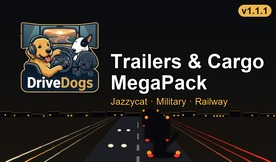
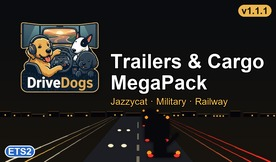
add the game badge bottom-left with a white rim over the light trails, so the ets2 and ats covers differ at thumbnail size

Changed region(s): [[0.0, 0.8951, 0.1449, 0.9877]]

diff --git a/tools/generate_cover.py b/tools/generate_cover.py
@@ -13,6 +13,10 @@ left lane.
 Composited at 4x (1104x648) then downscaled for anti-aliasing. The version
 badge is read from megapack.yaml's package.version, so rerun this before every
 build that bumps the version.
+
+The game badge (bottom-left, one colour per game so the ETS2 and ATS covers
+differ at thumbnail size) comes from megapack.yaml's package.game, never a
+constant here. A white rim keeps it distinct over the light trails behind it.
 """
 import random
 from pathlib import Path
@@ -44,18 +48,24 @@ TAILLIGHT_COLOR = (255, 48, 36)
 MARKER_COLOR = (255, 150, 40)
 BADGE_COLOR = (255, 196, 84)
 BADGE_TEXT_COLOR = (20, 16, 10)
+# Same values as the DriveDogs family reference (DriveDogs Pets): ETS2 blue, ATS red.
+GAME_BADGES = {"ets2": ("ETS2", (40, 110, 210)), "ats": ("ATS", (200, 45, 45))}
+GAME_TEXT_COLOR = (255, 255, 255)
 
 ROAD_TOP = 0.72  # fraction of height where the road meets the skyline
 ROAD_BOTTOM_X = (0.30, 0.70)
 ROAD_TOP_X = (0.44, 0.56)
 
 
-def read_version():
-    cfg = yaml.safe_load(CONFIG_PATH.read_text(encoding="utf-8"))
-    version = (cfg.get("package") or {}).get("version")
+def read_package():
+    """(version, game) from megapack.yaml's package block."""
+    package = yaml.safe_load(CONFIG_PATH.read_text(encoding="utf-8")).get("package") or {}
+    version, game = package.get("version"), package.get("game", "ets2")
     if not version:
         raise SystemExit(f"No package.version in {CONFIG_PATH}")
-    return str(version)
+    if game not in GAME_BADGES:
+        raise SystemExit(f"{CONFIG_PATH} package.game {game!r}: no badge defined")
+    return str(version), game
 
 
 def make_background(size):
@@ -297,24 +307,32 @@ def add_text(img):
     return img
 
 
-def add_version_badge(img, version):
-    """Amber pill in the empty top-right corner, legible at 276x162."""
-    draw = ImageDraw.Draw(img, "RGBA")
-    w, h = img.size
-    text = f"v{version}"
+def pill_layout(size, text, anchor):
+    """(font, text bbox, padding, pill box) of a pill; anchor = ("right", "top") for the version,
+    ("left", "bottom") for the game."""
+    w, h = size
     font = ImageFont.truetype(FONT_BOLD, int(h * 0.06))
-    bbox = draw.textbbox((0, 0), text, font=font)
-    pad_x, pad_y = h * 0.02, h * 0.015
-    x1, y0 = w - h * 0.03, h * 0.03
-    x0 = x1 - (bbox[2] - bbox[0]) - 2 * pad_x
-    y1 = y0 + (bbox[3] - bbox[1]) + 2 * pad_y
-    draw.rounded_rectangle([x0, y0, x1, y1], radius=(y1 - y0) / 2, fill=(*BADGE_COLOR, 235))
-    draw.text((x0 + pad_x - bbox[0], y0 + pad_y - bbox[1]), text, font=font, fill=BADGE_TEXT_COLOR)
+    bbox = font.getbbox(text)
+    pad_x, pad_y, margin = h * 0.02, h * 0.015, h * 0.03
+    pw, ph = (bbox[2] - bbox[0]) + 2 * pad_x, (bbox[3] - bbox[1]) + 2 * pad_y
+    x0 = w - margin - pw if anchor[0] == "right" else margin
+    y0 = margin if anchor[1] == "top" else h - margin - ph
+    return font, bbox, (pad_x, pad_y), (x0, y0, x0 + pw, y0 + ph)
+
+
+def pill(img, text, fill, text_fill, anchor, outline=None):
+    """A rounded pill holding `text`, legible at the final 276x162 size. `outline` rims it so it stays
+    distinct over the light trails behind it."""
+    draw = ImageDraw.Draw(img, "RGBA")
+    font, bbox, (pad_x, pad_y), box = pill_layout(img.size, text, anchor)
+    draw.rounded_rectangle(box, radius=(box[3] - box[1]) / 2, fill=(*fill, 235),
+                           outline=outline, width=SCALE if outline else 0)
+    draw.text((box[0] + pad_x - bbox[0], box[1] + pad_y - bbox[1]), text, font=font, fill=text_fill)
     return img
 
 
 def main():
-    version = read_version()
+    version, game = read_package()
     img = make_background(CANVAS_SIZE)
     img = add_skyline(img)
     img = add_road(img)
@@ -322,11 +340,13 @@ def main():
     img = add_vehicles(img)
     img = paste_logo(img)
     img = add_text(img)
-    img = add_version_badge(img, version)
+    img = pill(img, f"v{version}", BADGE_COLOR, BADGE_TEXT_COLOR, ("right", "top"))
+    label, colour = GAME_BADGES[game]
+    img = pill(img, label, colour, GAME_TEXT_COLOR, ("left", "bottom"), outline=GAME_TEXT_COLOR)
     img = img.resize(FINAL_SIZE, Image.LANCZOS)
     OUT_PATH.parent.mkdir(parents=True, exist_ok=True)
     img.save(OUT_PATH, "JPEG", quality=92)
-    print(f"Wrote {OUT_PATH} ({img.size[0]}x{img.size[1]}, v{version})")
+    print(f"Wrote {OUT_PATH} ({img.size[0]}x{img.size[1]}, v{version}, {label})")
 
 
 if __name__ == "__main__":
